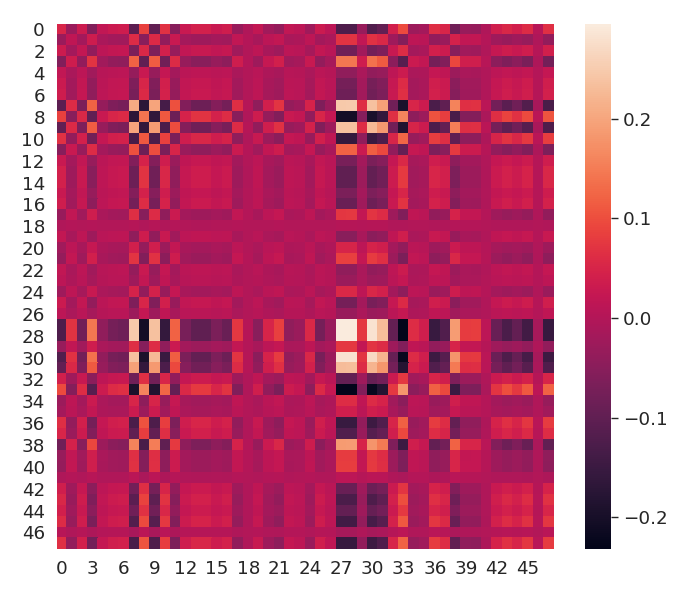
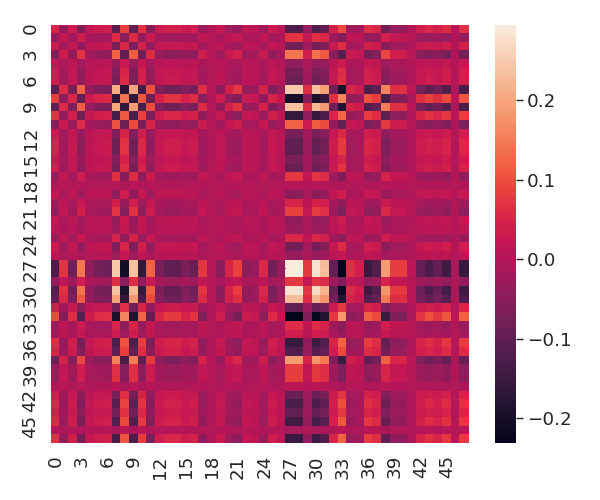
cleaner fig

Changed region(s): [[0.03, 0.03, 0.96, 0.96], [0.39, 0.78, 0.42, 0.81], [0.39, 0.42, 0.42, 0.45]]

diff --git a/CaseStudy_IrishCER/basic_opt_examples.py b/CaseStudy_IrishCER/basic_opt_examples.py
@@ -196,7 +196,7 @@ def construct_QP_battery_w_privD_cvx(param_set=None, d=None, p=None, plotfig=Fal
     obj, xhat, GAMMA_hat, lam, lam_sdp, mu, slacks = optMini_cvx.forward_single_cvx_np_Filter(Q, q, G, h, A, b, xi, d[:T], epsilon, T=T, p=price, sol_opt=cp_solver, verbose=debug)
     if plotfig:
         print(GAMMA_hat)
-        plt.figure(figsize=(7, 6))
+        plt.figure(figsize=(6, 5))
         sns.heatmap(GAMMA_hat)
         plt.tight_layout()
         plt.savefig('../fig/linear_filter_w1.png')
